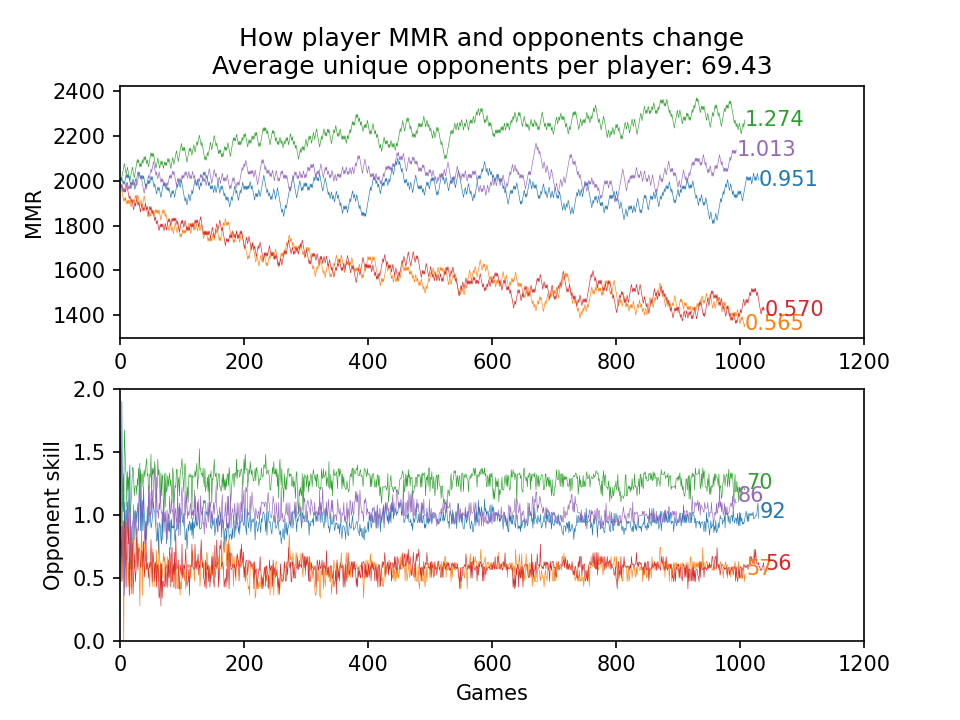
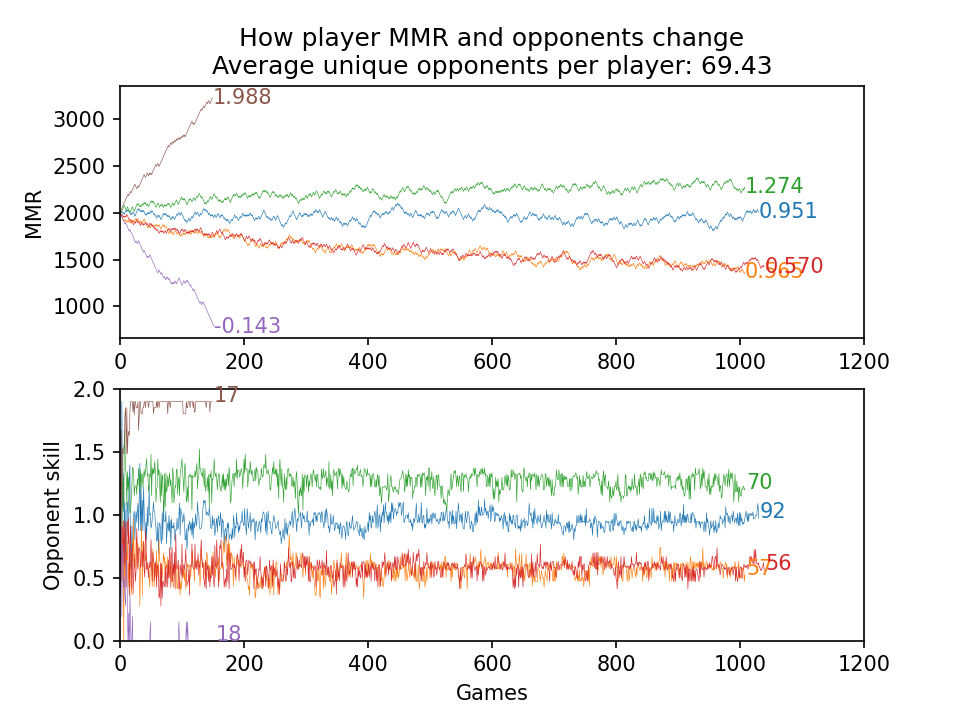
....

diff --git a/analyse.py b/analyse.py
@@ -2,6 +2,7 @@ import json
 import matplotlib.pyplot as plt
 import seaborn as sns
 import statistics
+import math
 
 with open("data.json", 'r') as f:
     data = json.load(f)
@@ -13,9 +14,35 @@ plt.rcParams['figure.dpi'] = 150
 ## PLAYER HISTORY
 def plot_mmr_history(DATAVALUES=6):
     unique_opponents = [len(set(i["opponent_history"])) for i in data]
+    extremes = [p for p in sorted(data, key=lambda x: x["skill"])]
+    extremes = [extremes[0], extremes[-1]]
+    players = data[:DATAVALUES - 2] + extremes
+
+    fig, ax = plt.subplots()
+
+    ax.plot(range(len(extremes[1]['mmr_history'])),
+            extremes[1]['mmr_history'],
+            label=f"Player skill: {extremes[1]['skill']}")
+
+    ax.set_ylabel("MMR", color="#0b47bf")
+    ax.set_xlabel("Games")
+
+    chances = [
+        1 / (1 + math.exp(-10 * (extremes[1]['skill'] - opponent)))
+        for opponent in extremes[1]['opponent_history']
+    ]
+    ax2 = ax.twinx()
+    ax2.plot(chances, color='red', linewidth=0.5)
+    ax2.set_ylim(0, 1.05)
+    ax2.set_ylabel("Chances against opponents", color="red")
+
+    plt.title(f"The best player ({extremes[1]['skill']})")
+    plt.savefig("Player_extremes.png")
+
+    plt.figure().clear()
     fig, ax = plt.subplots(2, 1)
 
-    for player in data[:DATAVALUES]:
+    for player in players:
         mmr = player["mmr_history"]
         opp = player["opponent_history"]
         p = ax[0].plot(list(range(len(mmr))), mmr, linewidth=0.3)
@@ -45,7 +72,7 @@ def plot_mmr_history(DATAVALUES=6):
     plt.savefig("Player_history.png")
 
 
-plot_mmr_history(5)
+plot_mmr_history()
 
 ### Sort data
 data = [i for i in sorted(data, key=lambda x: x["skill"])]
@@ -85,8 +112,11 @@ def plot_other():
     ax2 = ax1.twinx()
     ndata = [i for i in sorted(data, key=lambda x: x["mmr"])]
     nmmrs = [i["mmr"] for i in ndata]
-    ax2.scatter(nmmrs, [len(i["opponent_history"]) for i in ndata], s=2)
-    ax2.set_ylabel("Game count per player", color='#0b47bf')
+    histories = [len(i["opponent_history"]) for i in ndata]
+    ax2.scatter(nmmrs, histories, s=2)
+    ax2.set_ylabel(
+        f"Game count per player ({min(histories)}-{max(histories)})",
+        color='#0b47bf')
     plt.tight_layout()
     plt.savefig("MMR_dist.png")
 

diff --git a/main.cpp b/main.cpp
@@ -84,18 +84,6 @@ class ELO_strategy : public MatchmakingStrategy
     // ** TRY CHANGING So diff in chances is more aggressive (more points if chances are skewed more?)
   
     const double K = 32;
-    /*
-    High K seems to have better accuracy and slightly lower nunber of unique opponents
-
-    K       Opponents       Inaccuracy
-    4       97.3            18.36
-    8       83.3            11.98
-    16      74.9            8.74
-    32      69.4            7.33
-    64      67.4            6.71
-    128     66.6            6.17
-
-    */
 
 public:
     // Checks if the match between players would be a good based on MMR
@@ -289,8 +277,14 @@ int main()
     limit = 10*offset → Inaccuracy: 12
     limit = 100*offset → Inaccuracy: 60
 
-    ELO 2000-1000000
-    K=32 → Inaccuracy: 9.26673
+    ELO 200-100000
+    K       Opponents       Inaccuracy
+    4       99              19.2
+    8       85              12.5
+    16      75              9.0
+    32      69.4            7.5
+    64      67.4            6.71
+    128     66.6            6.17
 
     */
 

diff --git a/README.md b/README.md
@@ -1,5 +1,6 @@
 ![Screenshot](./Skill_dist.png)
 ![Screenshot](./MMR_dist.png)
+![Screenshot](./Player_extremes.png)
 ![Screenshot](./Player_history.png)
-![Screenshot](./MMR-Skill.png)
 ![Screenshot](./Games_played.png)
+![Screenshot](./MMR-Skill.png)
